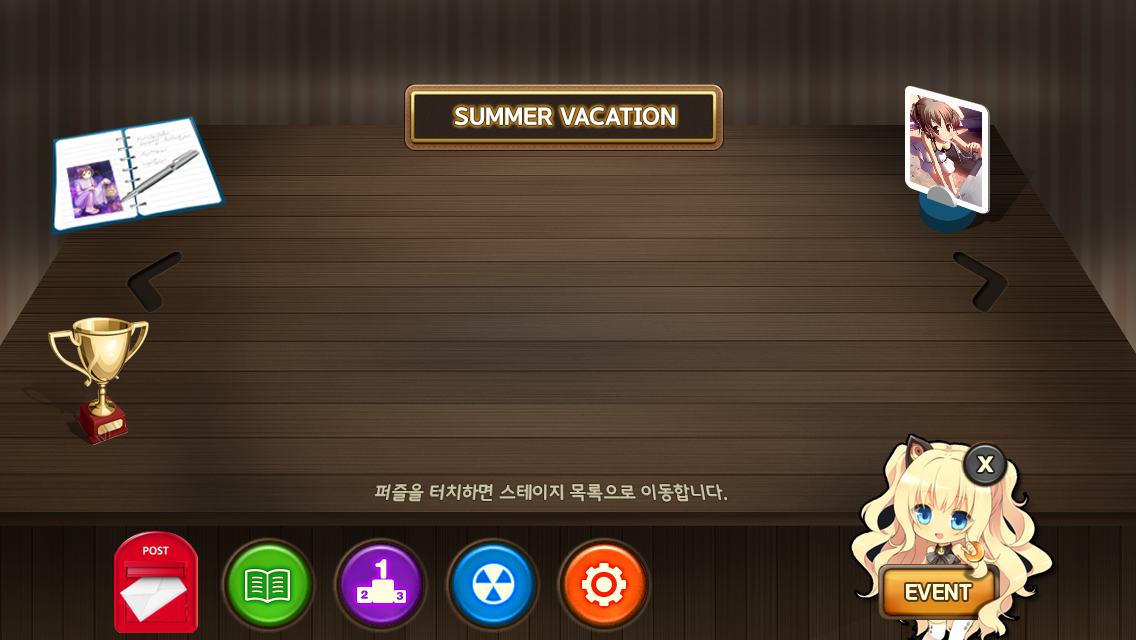
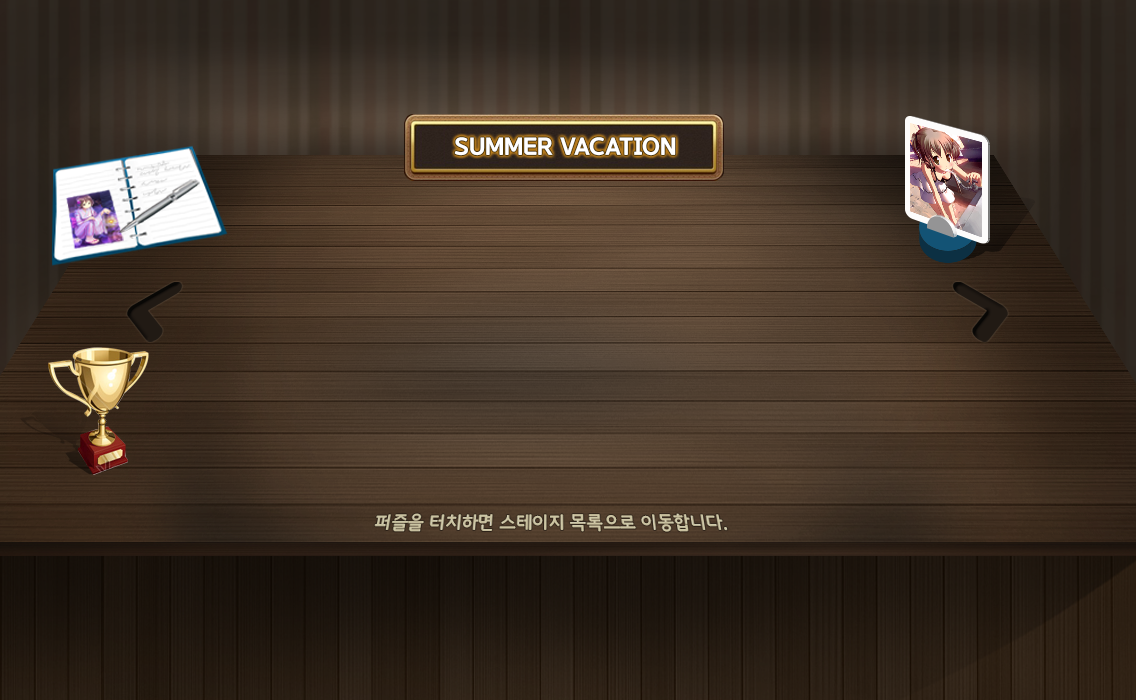
ui 스케일 및 기울기 변경 clear 이후 보스한테 가도록 하는거 버그 수정

diff --git a/Classes/MaingameScene.h b/Classes/MaingameScene.h
@@ -408,6 +408,7 @@ private:
 		move_to_boss_position_frame = 0;
 		CCPoint after_position = getObjectToGameNodePosition(myGD->getMainCumberPoint().convertToCCP());
 		CCPoint sub_position = ccpSub(after_position, game_node->getPosition());
+		CCLog("boss : %.2f\t recent : %.2f", after_position.y, game_node->getPositionY());
 		move_to_boss_position_ds = ccpMult(sub_position, 1.f/30.f);
 		schedule(schedule_selector(Maingame::moveToBossPosition));
 	}
@@ -416,8 +417,8 @@ private:
 		move_to_boss_position_frame++;
 		
 		CCPoint after_position = ccpAdd(game_node->getPosition(), move_to_boss_position_ds);
-		moveGamePosition(after_position);
-		myGD->communication("VS_setMoveGamePosition", after_position);
+		game_node->setPosition(after_position);
+		myGD->communication("VS_setMoveGamePosition", getGameNodeToObjectPosition(after_position));
 		
 		if(move_to_boss_position_frame >= 30)
 		{
@@ -437,6 +438,16 @@ private:
 		if(myGD->gamescreen_type == kGT_full)					after_position = ccp(myGD->boarder_value,y_value);
 		else if(myGD->gamescreen_type == kGT_leftUI)			after_position = ccp(50+myGD->boarder_value,y_value);
 		else if(myGD->gamescreen_type == kGT_rightUI)			after_position = ccp(myGD->boarder_value,y_value);
+		
+		return after_position;
+	}
+	
+	CCPoint getGameNodeToObjectPosition(CCPoint t_p)
+	{
+		CCSize frame_size = CCEGLView::sharedOpenGLView()->getFrameSize();
+		float y_value = -(t_p.y - 480.f*frame_size.height/frame_size.width/2.f)/myGD->game_scale;
+		CCPoint after_position;
+		after_position = ccp(160,y_value);
 		
 		return after_position;
 	}

diff --git a/Classes/PuzzleMapScene.cpp b/Classes/PuzzleMapScene.cpp
@@ -423,8 +423,8 @@ void PuzzleMapScene::startChangeUiMode()
 		showEventButton();
 	
 	change_frame = 0;
-	change_dy = -1.5f/30.f;
-	change_dscale = (0.5f-map_node->getScale())/30.f;
+	change_dy = -1.f/30.f;
+	change_dscale = (0.53f-map_node->getScale())/30.f;
 	change_dpoint = ccpMult(ccpSub(ccp(240,180), map_node->getPosition()), 1.f/30.f);
 	change_top_dy = -33.f/30.f;
 	change_bottom_dy = 65.f/30.f;
@@ -461,7 +461,7 @@ void PuzzleMapScene::startChangeMapMode()
 	map_mode_state = kMMS_changeMode;
 	
 	change_frame = 0;
-	change_dy = 1.5f/30.f;
+	change_dy = 1.f/30.f;
 	change_dscale = (1.f-map_node->getScale())/30.f;
 	change_dpoint = ccpMult(ccpSub(ccp(240,160), map_node->getPosition()), 1.f/30.f);
 	change_top_dy = 33.f/30.f;
